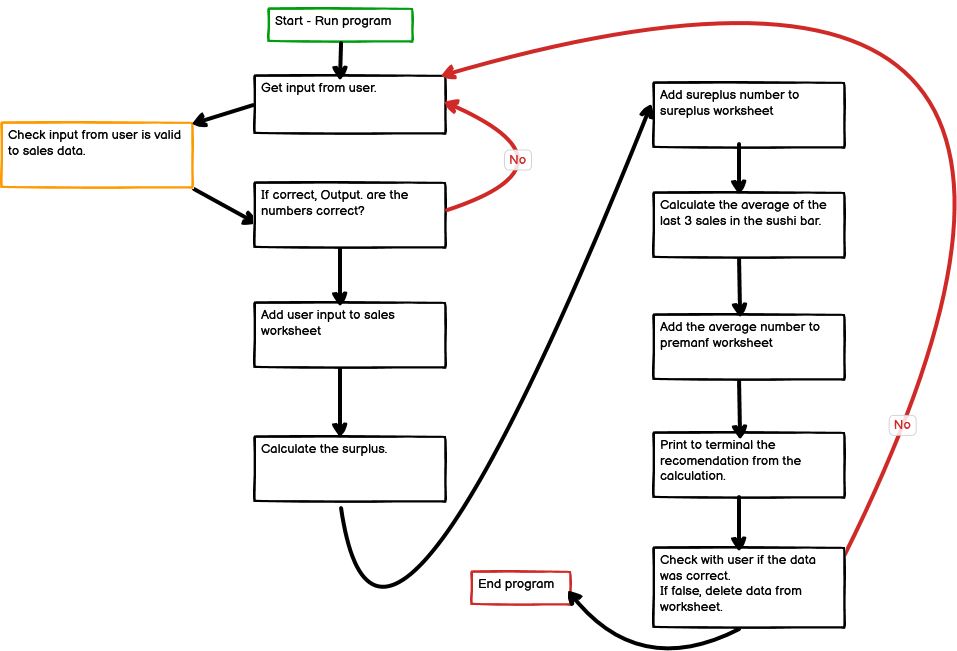
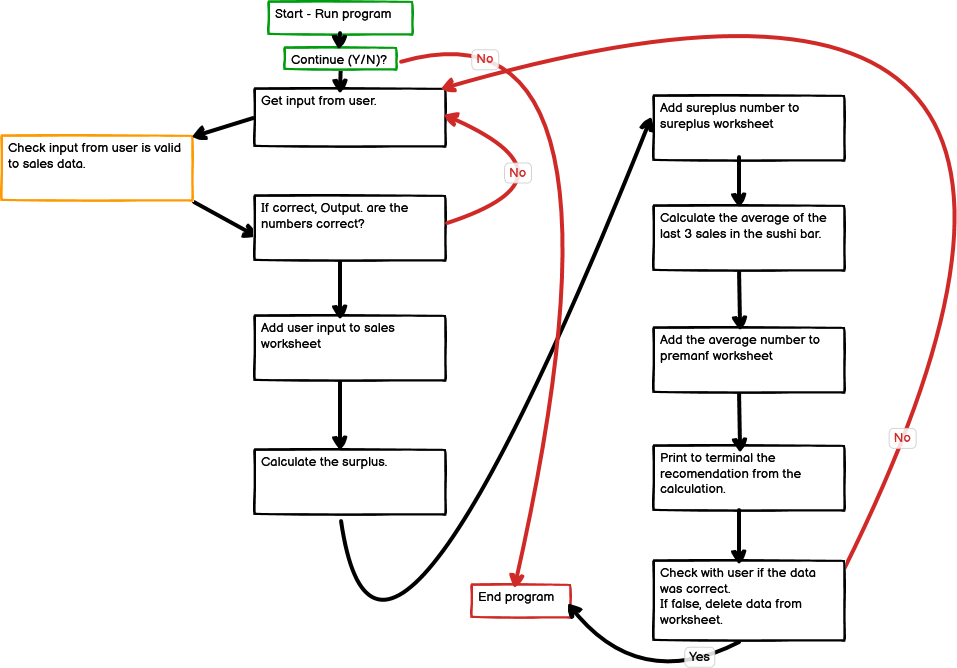
Docs. Write Site goals, Target business, user business, features planned and uppdated wireframe png.

diff --git a/README.md b/README.md
@@ -1,8 +1,50 @@
-![CI logo](https://codeinstitute.s3.amazonaws.com/fullstack/ci_logo_small.png)
+# Sushi bar surplus!
 
-Welcome GroundBuilder,
+![PNG of App](docs/readme_images/herokuapp_sushi.png)
 
-This is the Code Institute student template for deploying your third portfolio project, the Python command-line project. The last update to this file was: **August 17, 2021**
+## Table of fontents
+
+* [Introduction](#Introduction)
+    * [Site goals](#Site-goals)
+    * [Target business](#Target-business)
+    * [User stories](#User-stories)
+    * [Features planned](#Features-Planned)
+* [Structure](#Structure)
+    * [Features](#Features)
+    * [Features left to Implement](#Features-Left-to-Implement)
+* [Logical Flow](#Logical-Flow)
+* [Technologies](#Technologies)
+* [Testing](#Testing)
+    * [Functional Testing](#Functional-Testing)
+    * [Pep8 Validation](#Pep8-Validation)
+    * [Bugs and Fixes](#Bugs-and-Fixes)
+* [Deployment](#Deployment)
+    * [Version Control](#Version-Control)
+    * [Heroku Deployment](#Heroku-Deployment)
+    * [Clone Locally](Clone-Locally)
+* [Credits](#Credits)
+  * [Content](#Content)
+
+
+## Introduction
+
+This project was created to get the small sushi bar input in how much they need to premanufacturing till the next day. So the customers doesn't need to wait to get their lunch.
+
+### Site goals
+
+* Simpel program for the user to send input for how much they have sold and get input how much to premanufactur next day. Just to optimize their business.
+
+### Target business
+
+* Let small business get benefits of technologi to optimize their business with a low cost.
+
+### User stories
+
+* As a user, I want a easy way to put in my data and recieve new data for next days.
+* As a user, I want to get back if I enter worng sales data to the program.
+* As a user, I want to see what I enterd, so I can correct the values that was handled in to the program.
+* As a user, I want to like follow how the program is working while I wait for the input to premanufacturing.
+* As a user, I want to exit the program in the beginning, if I forgot to take in every data.
 
 ## Wireframe
 
